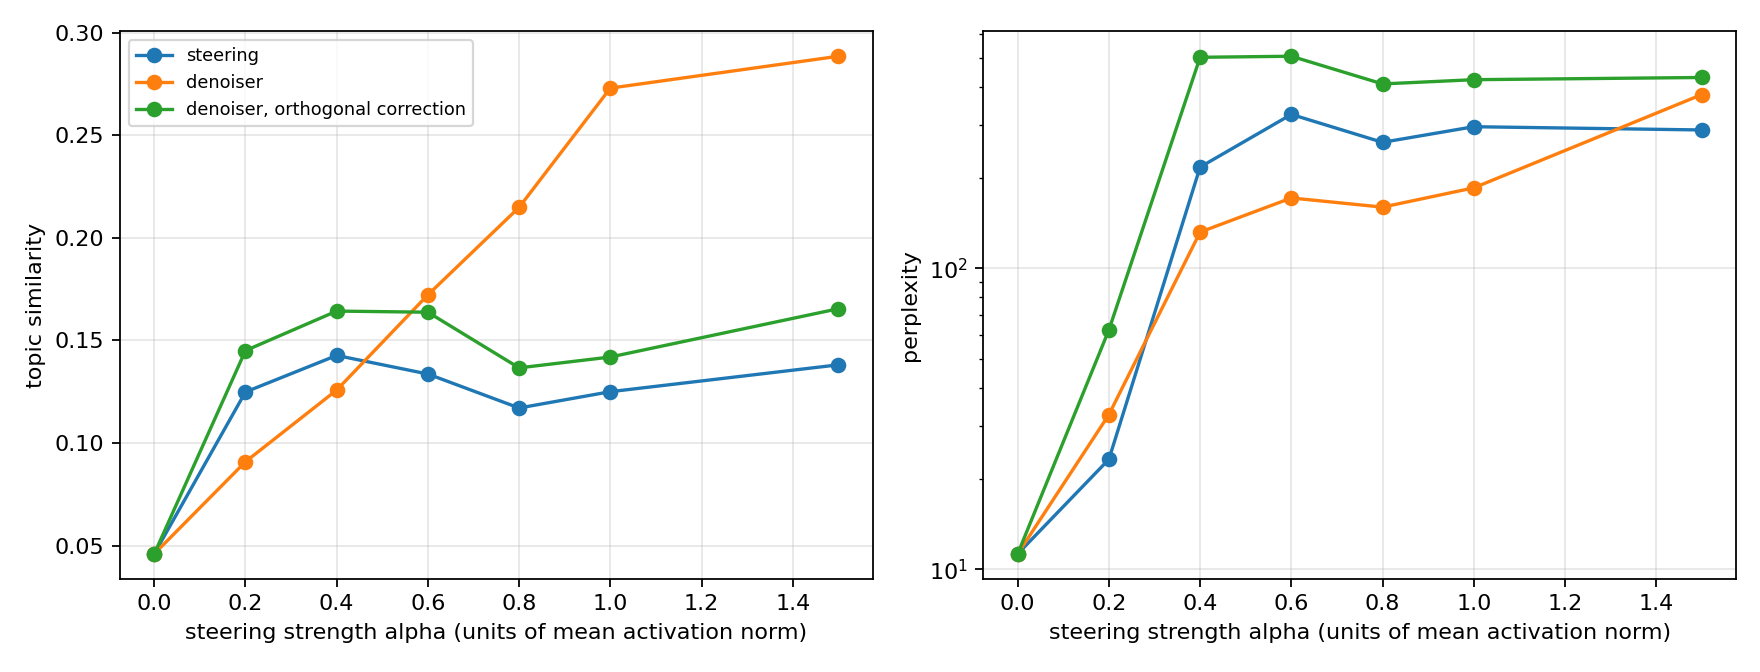
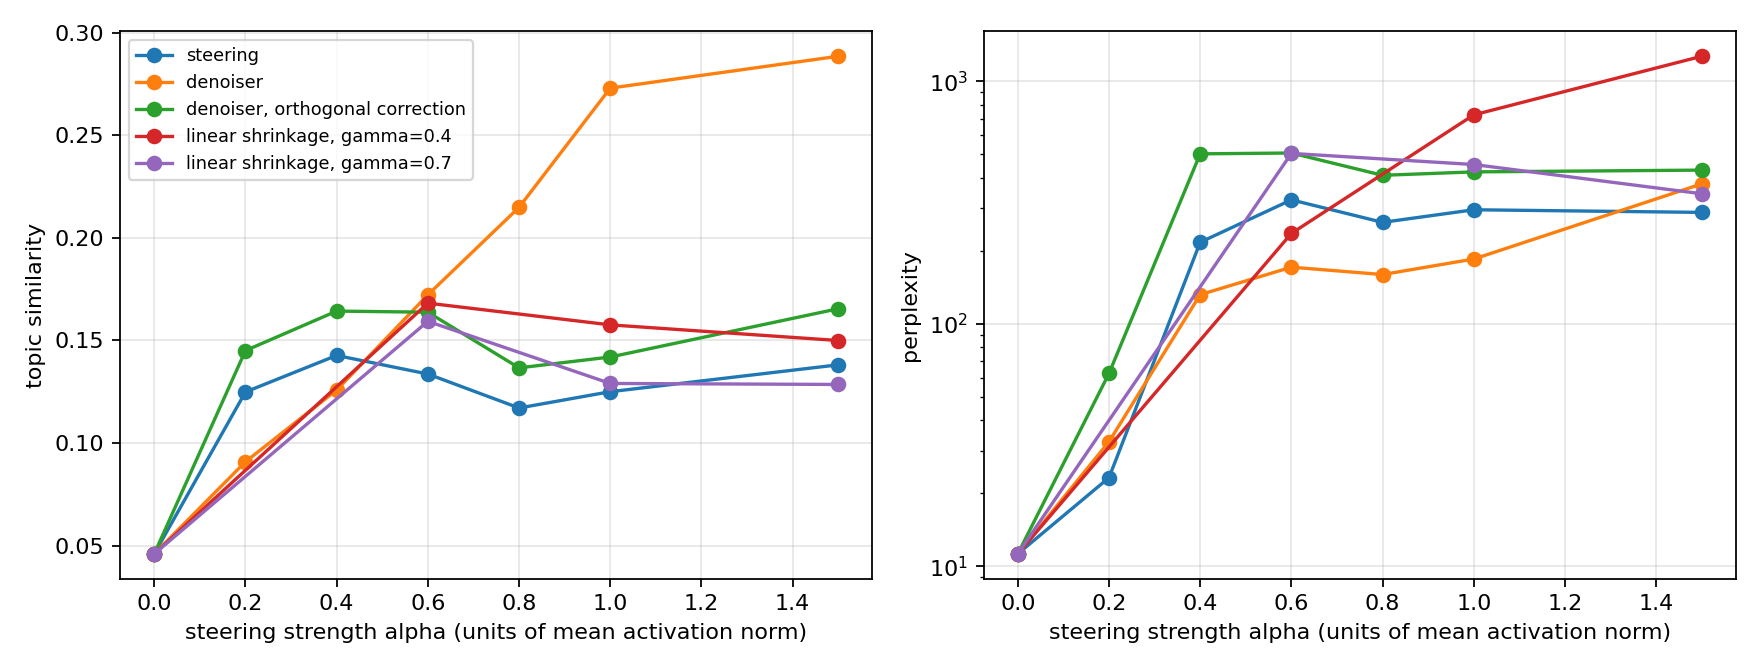
Add the shrinkage control, link the published checkpoint

diff --git a/msteer/denoiser.py b/msteer/denoiser.py
@@ -12,17 +12,23 @@ whole range from clean to pure noise with a bounded input scale, which matters
 because a steered state h + alpha*v is far outside the range that a fixed
 sigma would produce.
 
-Application. The naive use is h~ = D(h + alpha*v). It has a defect that is
-visible as soon as the correction is decomposed: a prior fitted to natural
-activations treats the injected component itself as the anomaly, so a large
-part of D(h + alpha*v) - (h + alpha*v) points along -v and simply undoes the
-intervention. The orthogonal variant keeps the component of the correction that
-is orthogonal to v and discards the parallel one:
+Application. Two variants are implemented and compared.
 
-    h~ = x + P_perp_v [ D(x) - x ],   x = h + alpha*v
+    denoise      h~ = D(x)
+    denoise_orth h~ = x + P_perp_v [ D(x) - x ],   x = h + alpha*v
 
-so the intervention survives at full strength while the off-manifold artefacts
-it introduced are removed.
+The second was proposed on the following argument: a prior fitted to natural
+activations treats the injected component itself as the anomaly, so much of
+D(x) - x points along -v and undoes the intervention; keeping only the
+orthogonal part of the correction should preserve the steering at full strength
+while removing the artefacts. The measurement confirms the premise -- the
+denoiser cancels 52 to 92 per cent of what was injected -- and refutes the
+conclusion: denoise_orth is worse on both axes. The cancellation is the
+mechanism, not a defect. Holding the injection at full strength keeps the state
+off-manifold and the text collapses into repetition.
+
+A third mode, ``shrink``, is the control for whether a learned prior is needed
+at all; see make_shrinkage.
 """
 
 from __future__ import annotations
@@ -95,8 +101,28 @@ def corrupt(z: torch.Tensor, generator: torch.Generator | None = None
     return t * z + (1 - t) * eps
 
 
+def make_shrinkage(mean: torch.Tensor, gamma: float):
+    """Linear contraction of the state towards the mean of natural activations.
+
+    The control for the claim that the denoiser does anything a learned prior
+    is needed for. Steering inflates the norm of the state; if a one-line
+    contraction towards the centre of the activation distribution reproduced
+    the denoiser's front, the 6.9M-parameter prior would be redundant. Sweeping
+    alpha does not answer this: alpha changes the size of the injection before
+    it happens, while a contraction acts afterwards and also shrinks the
+    natural part of h.
+    """
+
+    def shrink(x: torch.Tensor) -> torch.Tensor:
+        mu = mean.to(x.dtype).to(x.device)
+        return mu + gamma * (x - mu)
+
+    return shrink
+
+
 def make_intervention(v: torch.Tensor, alpha: float, scale: float,
-                      denoiser: Denoiser | None, mode: str):
+                      denoiser: Denoiser | None, mode: str,
+                      shrink_gamma: float = 0.5):
     """Returns the function applied to the residual stream at the hook point.
 
     ``alpha`` is measured in units of the mean activation norm, so the injected
@@ -121,11 +147,16 @@ def make_intervention(v: torch.Tensor, alpha: float, scale: float,
         parallel = (delta @ u).unsqueeze(-1) * u
         return x + (delta - parallel)
 
+    def shrink_only(h: torch.Tensor) -> torch.Tensor:
+        return make_shrinkage(denoiser.mean, shrink_gamma)(steer(h))
+
     if mode == "denoise":
         return denoise
     if mode == "denoise_orth":
         return denoise_orth
+    if mode == "shrink":
+        return shrink_only
     raise ValueError(f"unknown mode: {mode}")
 
 
-MODES = ("steer", "denoise", "denoise_orth")
+MODES = ("steer", "denoise", "denoise_orth", "shrink")

diff --git a/scripts/run_shrinkage.py b/scripts/run_shrinkage.py
@@ -1,0 +1,79 @@
+"""Control: does a linear contraction reproduce what the denoiser does?
+
+The denoiser's measured action on a steered state is an attenuation of the
+injected component plus a correction orthogonal to it. If a one-line
+contraction of the state towards the mean of natural activations,
+``x <- mu + gamma (x - mu)``, reproduced its Pareto front, the learned prior
+would be redundant and the finding would reduce to "steering inflates the norm
+and any contraction repairs it".
+
+Only the region where the denoiser wins is swept, over two contraction
+strengths, so the control is answered at the points the claim rests on.
+"""
+
+from __future__ import annotations
+
+import argparse
+import json
+from pathlib import Path
+
+from msteer.concepts import CONCEPTS, by_name
+from msteer.denoiser import make_intervention
+from msteer.generate import PROMPTS, generate
+from msteer.hooks import load
+from msteer.metrics import (concept_rate, continuation_perplexity,
+                            distinct_n, topic_similarity)
+from msteer.vectors import activation_scale, concept_vector
+from scripts.train_denoiser import load_denoiser
+
+RESULTS = Path("results")
+ALPHAS = (0.6, 1.0, 1.5)
+GAMMAS = (0.4, 0.7)
+
+
+def main() -> None:
+    ap = argparse.ArgumentParser()
+    ap.add_argument("--repeats", type=int, default=3)
+    ap.add_argument("--max_new_tokens", type=int, default=32)
+    ap.add_argument("--out", default="results/pareto.jsonl")
+    args = ap.parse_args()
+
+    model, tok = load()
+    denoiser = load_denoiser()
+    scale = activation_scale(model, tok, list(PROMPTS))
+    out = Path(args.out).open("a", encoding="utf-8")
+
+    for concept in CONCEPTS:
+        v = concept_vector(model, tok, concept)
+        for gamma in GAMMAS:
+            for alpha in ALPHAS:
+                fn = make_intervention(v, alpha, scale, denoiser, "shrink",
+                                       shrink_gamma=gamma)
+                texts, prompts = [], []
+                for r in range(args.repeats):
+                    texts += generate(model, tok, list(PROMPTS), fn,
+                                      max_new_tokens=args.max_new_tokens,
+                                      seed=1000 + r)
+                    prompts += list(PROMPTS)
+                row = dict(
+                    concept=concept.name, mode=f"shrink_g{gamma:g}", alpha=alpha,
+                    topic_similarity=topic_similarity(texts, concept.topic),
+                    concept_rate=concept_rate(texts, concept.probe),
+                    seed_rate=concept_rate(texts, concept.seed),
+                    perplexity=continuation_perplexity(model, tok, prompts, texts),
+                    distinct_2=distinct_n(texts, 2),
+                    n_samples=len(texts),
+                    sample=texts[0].replace("\n", " ")[:160],
+                )
+                out.write(json.dumps(row) + "\n")
+                out.flush()
+                print(f"{concept.name:9s} gamma={gamma:g} a={alpha:4.1f} "
+                      f"topic={row['topic_similarity']:5.3f} "
+                      f"probe={row['concept_rate']:5.2f} "
+                      f"ppl={row['perplexity']:8.1f} "
+                      f"d2={row['distinct_2']:.3f}", flush=True)
+    out.close()
+
+
+if __name__ == "__main__":
+    main()

diff --git a/scripts/analyze.py b/scripts/analyze.py
@@ -24,7 +24,9 @@ RESULTS = Path("results")
 FIGS = RESULTS / "figures"
 MODE_LABEL = {"steer": "steering",
               "denoise": "denoiser",
-              "denoise_orth": "denoiser, orthogonal correction"}
+              "denoise_orth": "denoiser, orthogonal correction",
+              "shrink_g0.4": "linear shrinkage, gamma=0.4",
+              "shrink_g0.7": "linear shrinkage, gamma=0.7"}
 
 
 def rows() -> list[dict]:

diff --git a/results/tables.md b/results/tables.md
@@ -19,6 +19,12 @@
 | development | denoiser, orthogonal correction | 0.8 | 0.203 | 29.95 | 1.34 | 375.3 | 0.403 |
 | development | denoiser, orthogonal correction | 1 | 0.205 | 30.09 | 1.83 | 425.1 | 0.384 |
 | development | denoiser, orthogonal correction | 1.5 | 0.232 | 27.14 | 2.14 | 489.9 | 0.326 |
+| development | linear shrinkage, gamma=0.4 | 0.6 | 0.224 | 2.35 | 0.02 | 239.9 | 0.529 |
+| development | linear shrinkage, gamma=0.4 | 1 | 0.172 | 0.71 | 0.08 | 527.6 | 0.511 |
+| development | linear shrinkage, gamma=0.4 | 1.5 | 0.189 | 1.17 | 0.00 | 792.9 | 0.594 |
+| development | linear shrinkage, gamma=0.7 | 0.6 | 0.178 | 0.68 | 0.00 | 340.1 | 0.650 |
+| development | linear shrinkage, gamma=0.7 | 1 | 0.179 | 0.86 | 0.00 | 347.0 | 0.482 |
+| development | linear shrinkage, gamma=0.7 | 1.5 | 0.179 | 3.33 | 0.00 | 351.2 | 0.339 |
 | held out | steering | 0 | 0.031 | 0.00 | 0.10 | 11.3 | 0.875 |
 | held out | steering | 0.2 | 0.065 | 0.02 | 0.25 | 21.7 | 0.814 |
 | held out | steering | 0.4 | 0.106 | 0.00 | 0.17 | 272.0 | 0.784 |
@@ -38,3 +44,9 @@
 | held out | denoiser, orthogonal correction | 0.8 | 0.070 | 0.00 | 0.00 | 444.3 | 0.447 |
 | held out | denoiser, orthogonal correction | 1 | 0.078 | 0.00 | 0.00 | 421.4 | 0.398 |
 | held out | denoiser, orthogonal correction | 1.5 | 0.099 | 0.00 | 0.00 | 371.1 | 0.292 |
+| held out | linear shrinkage, gamma=0.4 | 0.6 | 0.112 | 0.00 | 0.86 | 232.1 | 0.639 |
+| held out | linear shrinkage, gamma=0.4 | 1 | 0.143 | 0.02 | 2.50 | 927.6 | 0.656 |
+| held out | linear shrinkage, gamma=0.4 | 1.5 | 0.111 | 0.00 | 0.45 | 1745.8 | 0.778 |
+| held out | linear shrinkage, gamma=0.7 | 0.6 | 0.141 | 0.00 | 1.13 | 668.9 | 0.813 |
+| held out | linear shrinkage, gamma=0.7 | 1 | 0.079 | 0.00 | 0.03 | 560.9 | 0.623 |
+| held out | linear shrinkage, gamma=0.7 | 1.5 | 0.078 | 0.00 | 0.00 | 336.7 | 0.372 |

diff --git a/README.md b/README.md
@@ -36,6 +36,13 @@ perplexity.
 
 ![Pareto front](results/figures/pareto.png)
 
+Two alternative explanations were tested and rejected. Attenuation alone: the
+denoiser keeps 8-48% of the injection, and plain steering across that effective
+range reaches only 0.065-0.106. Generic contraction: replacing the denoiser with
+`x <- mu + gamma (x - mu)` gives perplexity 928 (gamma=0.4) and 561 (gamma=0.7)
+at alpha=1.0, against the denoiser's 88.8 -- worse than plain steering, and no
+contraction setting lands on the Pareto front.
+
 The refinement proposed in the method below -- protecting the injected component
 from the denoiser -- was measured and does **not** work. The denoiser cancels
 52-92% of what was injected, and that cancellation turns out to be the mechanism
@@ -108,6 +115,8 @@ python -m scripts.analyze
 ```
 
 ## Layout
+
+Trained denoiser: [mariakasimceva/steering-denoiser](https://huggingface.co/mariakasimceva/steering-denoiser).
 
 ```
 msteer/concepts.py   concepts, seed and probe lexicons, dev / held-out split
